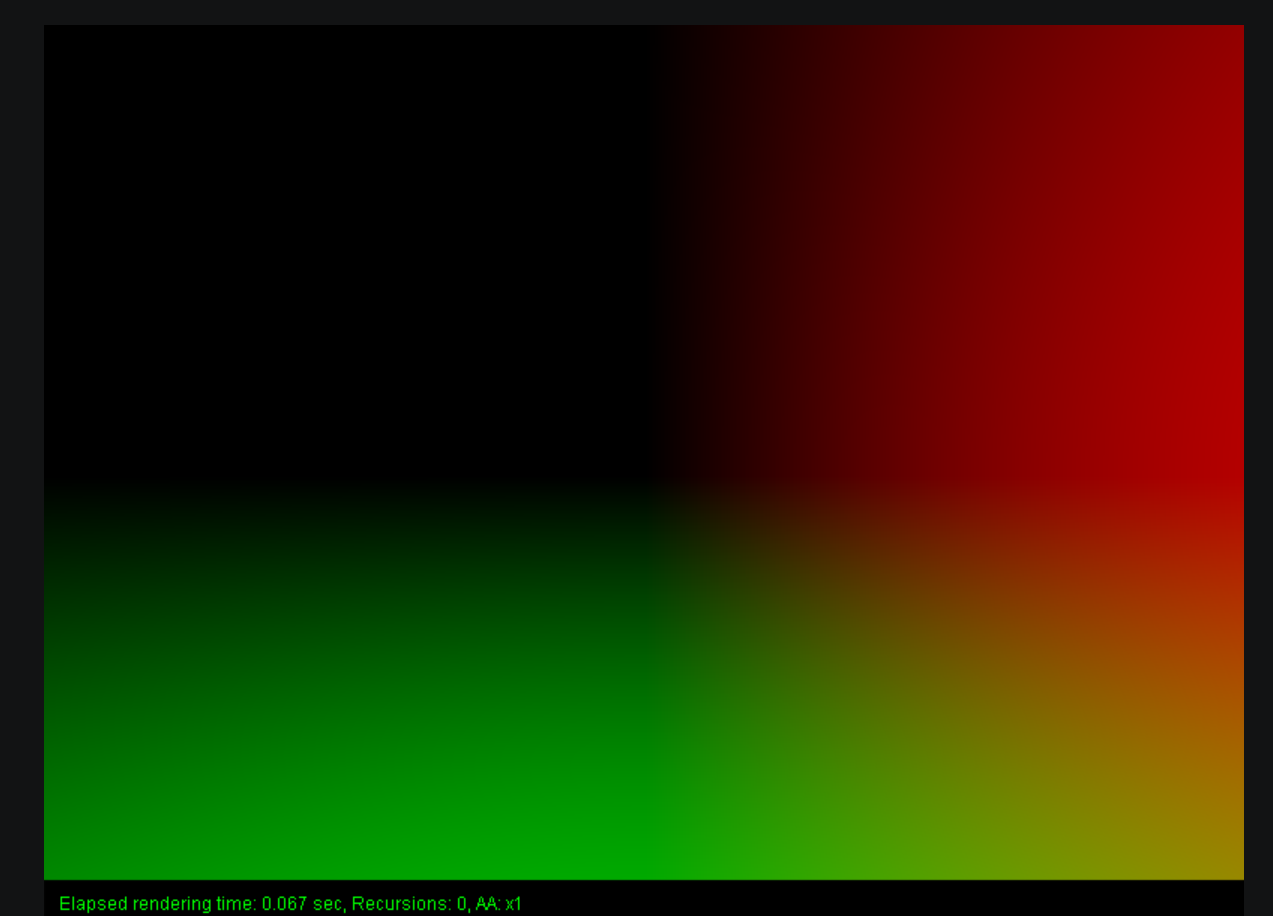
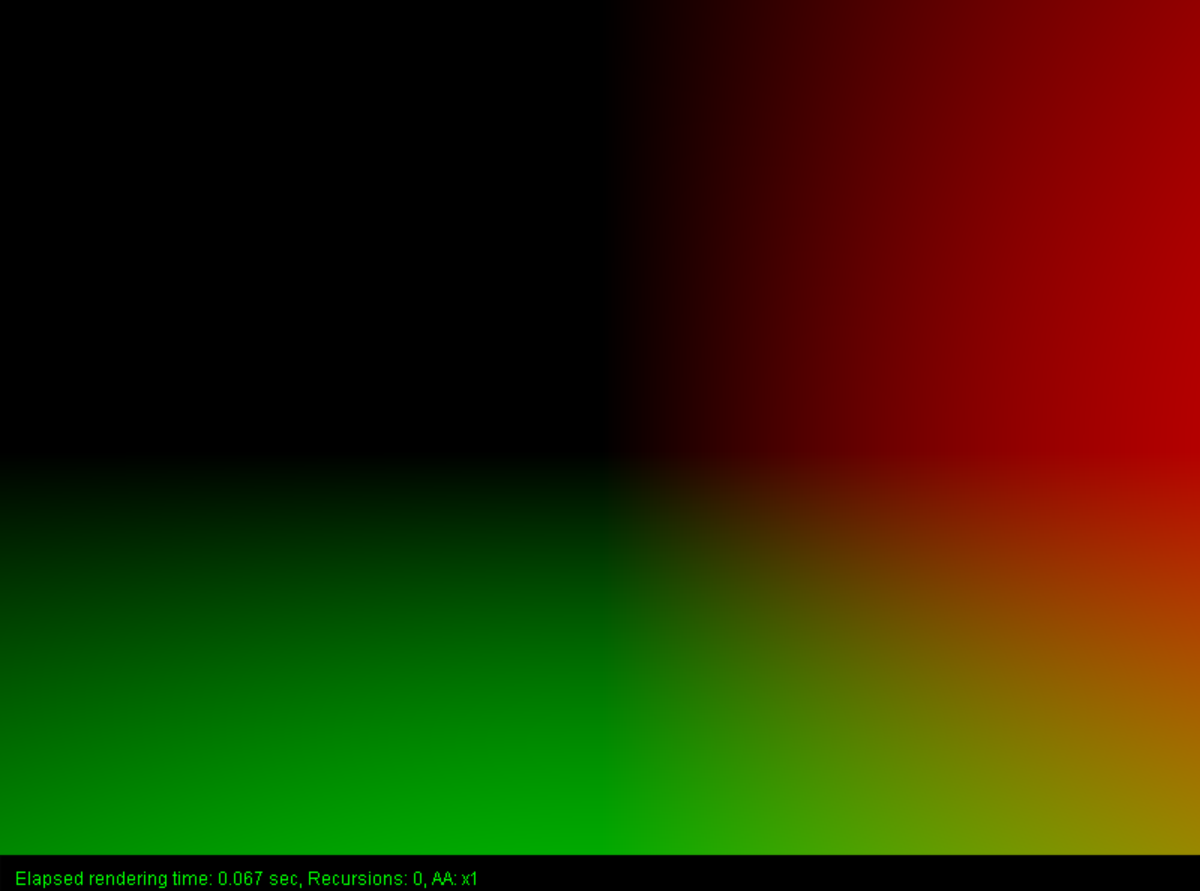
Scene Setup for Slides

Changed region(s): [[0.6167, 0.0, 1.0, 0.9697], [0.0, 0.6061, 0.8017, 1.0], [0.8942, 0.9394, 0.925, 0.9697]]

diff --git a/VCG_Raytracer/src/Main.java b/VCG_Raytracer/src/Main.java
@@ -53,8 +53,8 @@ public class Main {
 
     /** RESOLUTION **/
 
-    static final int IMAGE_WIDTH = 800;
-    static final int IMAGE_HEIGHT = 600;
+    static final int IMAGE_WIDTH = 1920;
+    static final int IMAGE_HEIGHT = 1080;
 
     /** CORNELL_BOX_DIMENSION **/
 
@@ -62,14 +62,14 @@ public class Main {
 
     /** RAYTRACER **/
 
-    static final int RECURSIONS = 4;
-    static final int ANTI_ALIASING = (int) Math.pow(1, 2); // only valid AA values are 1 and any number whose sqr root
+    static final int RECURSIONS = 6;
+    static final int ANTI_ALIASING = (int) Math.pow(5, 2); // only valid AA values are 1 and any number whose sqr root
                                                            // results a whole number
     static final boolean USE_SOFT_SHADOWS = false;
 
     /** LIGHT **/
     static final short LIGHT_DENSITY = 20;
-    static final short LIGHT_SAMPLES = (short) Math.pow(1, 2);// only valid AA values are 1 and any number whose sqr
+    static final short LIGHT_SAMPLES = (short) Math.pow(4, 2);// only valid AA values are 1 and any number whose sqr
                                                               // root results a whole number
 
     static final RgbColor BACKGROUND_COLOR = RgbColor.BLACK;
@@ -79,7 +79,7 @@ public class Main {
     // careful: now that the square is set inside of AreaLight be careful not to put
     // the light too close to the ceiling, else the square might get placed outside
     // our cornell box
-    static final Vec3 LIGHT_POSITION = new Vec3(0, 5.9f, 0);
+    static final Vec3 LIGHT_POSITION = new Vec3(0, 5.9f, 1);
     static final short AREA_LIGHT_SIZE = 1;
 
     /** GI **/
@@ -87,7 +87,7 @@ public class Main {
     static final int GI_LEVEL = 0;
     static final int GI_SAMPLES = 0;
 
-    static final RgbColor LIGHT_COLOR = new RgbColor(0.7f, 0.7f, 0.7f);
+    static final RgbColor LIGHT_COLOR = new RgbColor(1f, 0.95f, 1f);
     static final RgbColor AMBIENT_LIGHT = new RgbColor(0.12f, 0.1f, 0.15f);
 
     static final boolean USE_AO = false;
@@ -100,7 +100,7 @@ public class Main {
     static final Vec3 LOOK_AT = new Vec3(0, 3, 0);
     static final Vec3 UP_VECTOR = new Vec3(0, 1, 0);
 
-    static final float VIEW_ANGLE = 70;
+    static final float VIEW_ANGLE = 60;
 
     /** MATERIAL - REFRECTIVE INDICES **/
 
@@ -111,7 +111,7 @@ public class Main {
 
     /** DEBUG **/
     // this gets rid of the debug info on the bottom of the window
-    static final boolean SHOW_PARAM_LABEL = true;
+    static final boolean SHOW_PARAM_LABEL = false;
 
     /** Initial method. This is where the show begins. **/
     public static void main(String[] args) {
@@ -147,18 +147,7 @@ public class Main {
     }
 
     private static void setupLights(Scene renderScene) {
-        // Lights - task 3
-        // renderScene.createPointLight(new Vec3 (-2.5f,2.5f,4), new
-        // RgbColor(0.3f,0.7f,0.3f));
-        // renderScene.createPointLight(new Vec3 (3f,2.5f,3), new
-        // RgbColor(0.7f,0.3f,0.3f));
-        // renderScene.createPointLight(new Vec3 (-2.5f,5f,2), new
-        // RgbColor(0.3f,0.3f,0.7f));
 
-        // Lights - task 4
-        // renderScene.createPointLight(LIGHT_POSITION, LIGHT_COLOR);
-
-        // Lights - task 6
         renderScene.createAreaLight(renderScene, LIGHT_SAMPLES, AREA_LIGHT_SIZE, LIGHT_POSITION, LIGHT_COLOR, 3.5f);
 
     }
@@ -176,66 +165,17 @@ public class Main {
 
     private static void setupObjects(Scene renderScene) {
 
-        // Materials
-        Material mat_lambert = new Lambert(new RgbColor(0.6f, 0.2f, 0.5f));
-        Material mat_lambert_shiny = new Lambert(RgbColor.PURPLE, 0.6f, 0f);
+        Material test = new Lambert(RgbColor.GREEN, 0f, 0f);
 
-        Material mat_phong = new Phong(RgbColor.PURPLE, new RgbColor(0.8f, 0.8f, 0.8f), 8);
-        Material mat_phong_shiny = new Phong(RgbColor.GREEN, new RgbColor(0.8f, 1f, 0.8f), 18, 0f, 1f);
+        Material phong_red = new Phong(RgbColor.RED, new RgbColor(1f, 0.8f, 0.8f), 4);
+        Material phong_blue = new Phong(RgbColor.BLUE, new RgbColor(0.8f, 0.8f, 1f), 20, 0.2f, 0f);
 
-        Material mat_lamp = new Solid();
+        Material lambert_trans = new Phong(RgbColor.PURPLE, new RgbColor(0.8f, 1f, 0.8f), 1, 0f, 0f, GLASS);
 
-        Material mat_phong_transparent = new Phong(RgbColor.PURPLE, new RgbColor(0.8f, 1f, 0.8f), 18, 0.0f, 0.8f, DIAMOND);
+        //renderScene.createSphere(new Vec3(-3f, 1f, -1f), 1f, phong_red);
+        //renderScene.createSphere(new Vec3(-1f, 0.75f, -1.5f), 0.75f, phong_blue);
+        //renderScene.createCubeTower(1.2f, new Vec3(1,0.6f,-1), lambert_trans);
 
-        // Objects
-        // renderScene.createSphere(new Vec3(1.2f,1f,-1.5f), 1f, mat_phong_shiny);
-        // renderScene.createSphere(new Vec3(-1f,1.0f,0f), 1.0f, mat_phong_transparent);
-
-        // renderScene.createSphere(new Vec3(1.2f,1f,-1), 1f, mat_lambert);
-        // renderScene.createSphere(new Vec3(-1f,0.5f,0.1f), 0.5f, mat_phong);
-
-        //renderScene.createSphere(new Vec3(-2.5f, 0.75f, -2f), 0.75f, new Phong(RgbColor.YELLOW, new RgbColor(0.8f, 1f, 0.8f), 18, 0.5f, 0f));
-        //renderScene.createSphere(new Vec3(2.5f, 1.25f, 1f), 1.25f, new Phong(RgbColor.YELLOW, new RgbColor(0.8f, 1f, 0.8f), 18, 1f, 0f));
-
-        // testing square
-        // renderScene.createSquare(2, new Vec3(-1.5f, 3.5f, 0f), new Vec3(1f, 0.5f,
-        // 0.5f), new Phong(RgbColor.RED, new RgbColor(0.8f, 0.8f, 0.8f), 8));
-        // renderScene.createCube(1f, new Vec3(-2f, 0.5f, 0f));
-        // renderScene.createCube(1f, new Vec3(-2.5f, 1.5f, -2f),mat_phong);
-        // renderScene.createCube(1f, new Vec3(-2.5f, 2.5f, -2f),new
-        // Phong(RgbColor.CYAN, new RgbColor(0.8f, 0.8f, 0.8f), 8));
-        // renderScene.createCube(1f, new Vec3(-2.5f, 0.5f,
-        // -2.5f),mat_phong_transparent);
-
-        // cube tower test
-        // renderScene.createCubeTower(1f, new Vec3(-2, 0.5f, -1.5f), mat_phong_shiny);
-
-        //renderScene.createPolygon(new Vec3(0.5f, 0, 0), new Vec3(-2, 3, 0), new Vec3(1, 1, -3), mat_lambert);
-
-        /* 
-        InputStream inStream;
-        try {
-            //we have stanford bunny as a file but it has 5k faces so would take too long to render and would need to be scaled up massively due to v's being e-3 as an example --> needs scaling 18ish
-            //we also have a 3k faces duck which loads alone but not great together with stuff and as water doesnt look amazing without AA but looks alright with yellow water
-            inStream = new FileInputStream("VCG_Raytracer/models/duck_3k.obj");
-
-            BoundingBox boxIncludingMesh;
-
-            boxIncludingMesh = ObjImporter.load(
-                    inStream,
-                    new Phong(RgbColor.YELLOW, new RgbColor(0.8f, 1f, 0.8f), 18, 0.0f, 0.8f, WATER),
-                    new Vec3(0f, 0f, 0f),
-                    new Vec3(0, -45, 0),
-                    1.7f);
-
-            renderScene.addShape(boxIncludingMesh); //commented out to make the uploaded version easier to run for now and totally not to hide our masterpiece hehehe
-        } catch (Exception e) {
-            // TODO Auto-generated catch block
-            e.printStackTrace();
-            System.err.println("Error: somethign went wrong at .obj import");
-        }*/
-
-        
         InputStream inStream;
         InputStream matInStream;
         try {
@@ -296,7 +236,7 @@ public class Main {
             //and finally we'll put a big stanford bunny to the right
             //notes for low poly bunny - rotate x-90 for it to sit upright and needs to be scaled down to like 0.02f due to it being massive
             //normal bunny had too many faces sadly
-            inStream = new FileInputStream("VCG_Raytracer/models/Bunny-LowPoly.obj");
+            inStream = new FileInputStream("VCG_Raytracer/models/utah_teapot.obj");
 
             boxIncludingMesh = ObjImporter.load(
                     inStream,
@@ -325,13 +265,13 @@ public class Main {
         // there should be a square to make symbolise the lightsource position
 
         // left
-        renderScene.createPlane(new Vec3(-4, 0, 0), new Vec3(1f, 0f, 0f), new Lambert(RgbColor.RED));
+        renderScene.createPlane(new Vec3(-6, 0, 0), new Vec3(1f, 0f, 0f), new Lambert(RgbColor.RED));
         // right
-        renderScene.createPlane(new Vec3(4, 0, 0), new Vec3(-1f, 0f, 0f), new Lambert(RgbColor.BLUE));
+        renderScene.createPlane(new Vec3(6, 0, 0), new Vec3(-1f, 0f, 0f), new Lambert(RgbColor.BLUE));
         // bot, top, back
         renderScene.createPlane(new Vec3(0, 0, 0), new Vec3(0f, 1f, 0f), new Lambert(RgbColor.WHITE));//, 0.5f, 0f));
         renderScene.createPlane(new Vec3(0, 6, 0), new Vec3(0f, -1f, 0f), new Lambert(RgbColor.WHITE));
-        renderScene.createPlane(new Vec3(0, 0, -4), new Vec3(0f, 0f, 1f), new Lambert(RgbColor.WHITE));
+        renderScene.createPlane(new Vec3(0, 0, -3), new Vec3(0f, 0f, 1f), new Lambert(RgbColor.WHITE));
         // behind cam
         renderScene.createPlane(new Vec3(0, 0, 6), new Vec3(0f, 0f, -1f), new Lambert(RgbColor.WHITE));
     }
